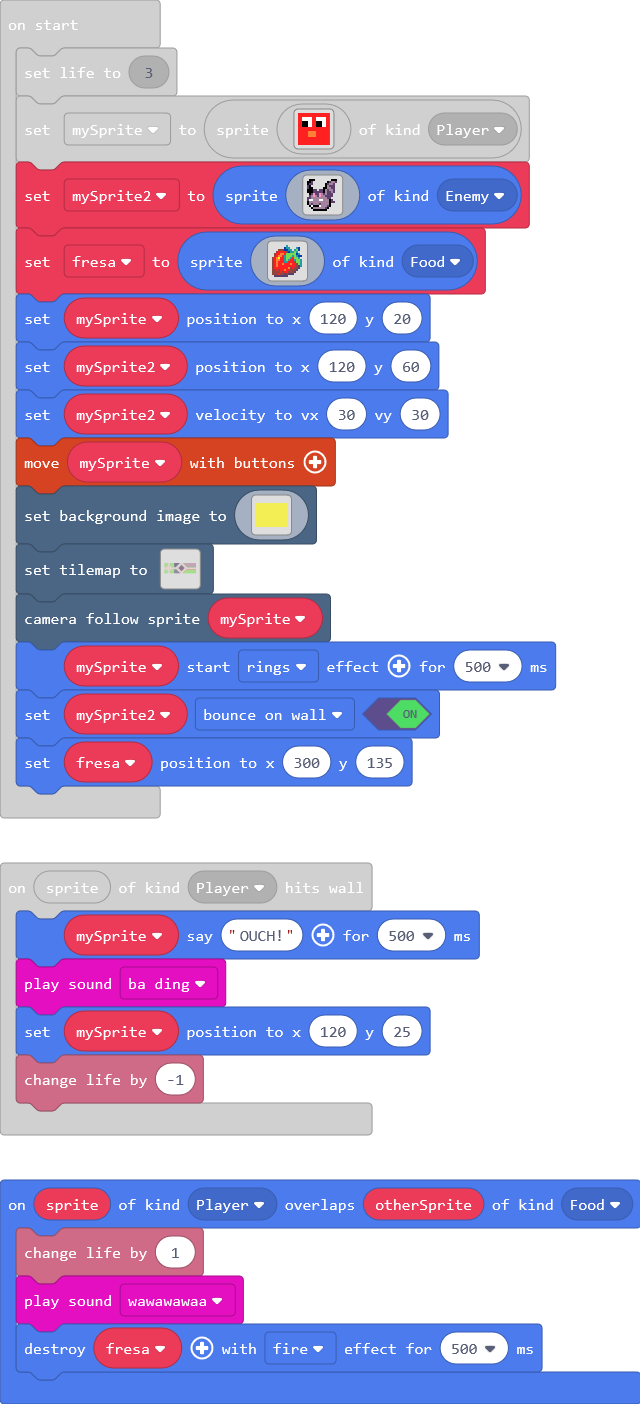
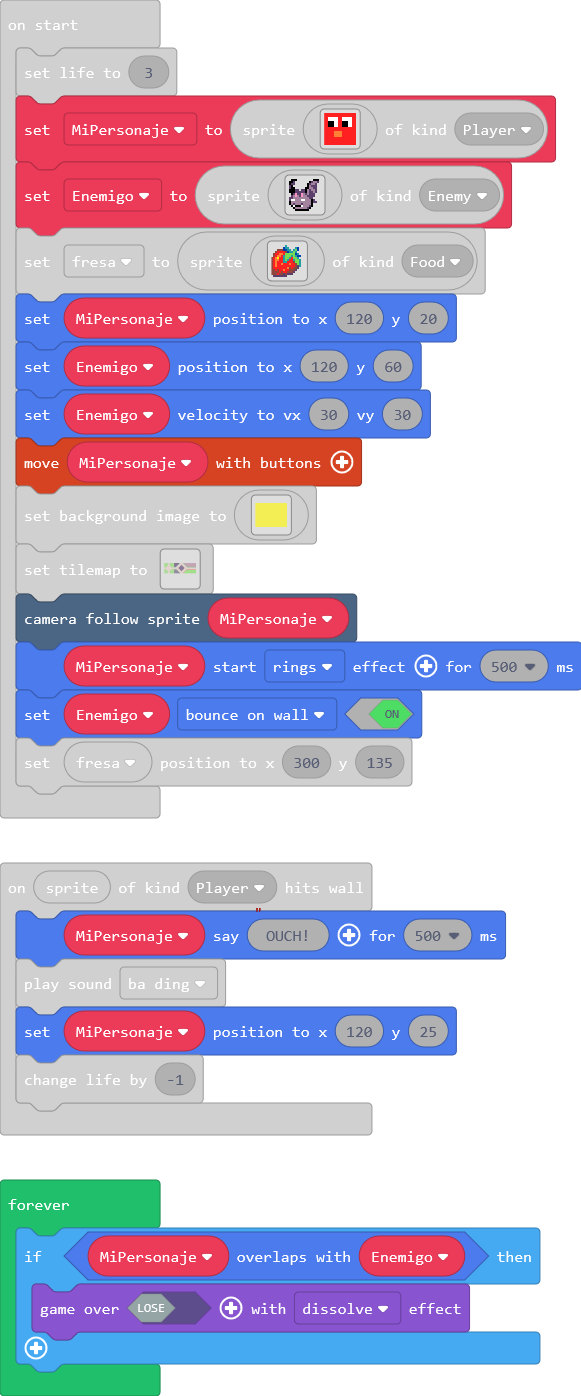
Update main.blocks, main.ts

diff --git a/main.ts b/main.ts
@@ -20,9 +20,9 @@ namespace myTiles {
 `
 }
 scene.onHitWall(SpriteKind.Player, function (sprite) {
-    mySprite.say("OUCH!", 500)
+    MiPersonaje.say("OUCH!", 500)
     music.baDing.play()
-    mySprite.setPosition(120, 25)
+    MiPersonaje.setPosition(120, 25)
     info.changeLifeBy(-1)
 })
 sprites.onOverlap(SpriteKind.Player, SpriteKind.Food, function (sprite, otherSprite) {
@@ -31,9 +31,9 @@ sprites.onOverlap(SpriteKind.Player, SpriteKind.Food, function (sprite, otherSpr
     fresa.destroy(effects.fire, 500)
 })
 let fresa: Sprite = null
-let mySprite: Sprite = null
+let MiPersonaje: Sprite = null
 info.setLife(3)
-mySprite = sprites.create(img`
+MiPersonaje = sprites.create(img`
 2 2 2 2 2 2 2 2 2 2 2 2 2 2 2 2 
 2 2 2 2 2 2 2 2 2 2 2 2 2 2 2 2 
 2 2 1 1 1 1 1 2 2 1 1 1 1 1 2 2 
@@ -51,7 +51,7 @@ mySprite = sprites.create(img`
 2 2 2 2 2 2 2 2 2 2 2 2 2 2 2 2 
 2 2 2 2 2 2 2 2 2 2 2 2 2 2 2 2 
 `, SpriteKind.Player)
-let mySprite2 = sprites.create(img`
+let Enemigo = sprites.create(img`
 . f f f . . . . . . . . f f f . 
 f f c . . . . . . . f c b b c . 
 f c c . . . . . . f c b b c . . 
@@ -87,10 +87,10 @@ e e e e 2 e 2 2 e e e c . . . .
 e e e 2 e e c e c c c . . . . . 
 . c c c c c c c . . . . . . . . 
 `, SpriteKind.Food)
-mySprite.setPosition(120, 20)
-mySprite2.setPosition(120, 60)
-mySprite2.setVelocity(30, 30)
-controller.moveSprite(mySprite)
+MiPersonaje.setPosition(120, 20)
+Enemigo.setPosition(120, 60)
+Enemigo.setVelocity(30, 30)
+controller.moveSprite(MiPersonaje)
 scene.setBackgroundImage(img`
 5 5 5 5 5 5 5 5 5 5 5 5 5 5 5 5 5 5 5 5 5 5 5 5 5 5 5 5 5 5 5 5 5 5 5 5 5 5 5 5 5 5 5 5 5 5 5 5 5 5 5 5 5 5 5 5 5 5 5 5 5 5 5 5 5 5 5 5 5 5 5 5 5 5 5 5 5 5 5 5 5 5 5 5 5 5 5 5 5 5 5 5 5 5 5 5 5 5 5 5 5 5 5 5 5 5 5 5 5 5 5 5 5 5 5 5 5 5 5 5 5 5 5 5 5 5 5 5 5 5 5 5 5 5 5 5 5 5 5 5 5 5 5 5 5 5 5 5 5 5 5 5 5 5 5 5 5 5 5 5 
 5 5 5 5 5 5 5 5 5 5 5 5 5 5 5 5 5 5 5 5 5 5 5 5 5 5 5 5 5 5 5 5 5 5 5 5 5 5 5 5 5 5 5 5 5 5 5 5 5 5 5 5 5 5 5 5 5 5 5 5 5 5 5 5 5 5 5 5 5 5 5 5 5 5 5 5 5 5 5 5 5 5 5 5 5 5 5 5 5 5 5 5 5 5 5 5 5 5 5 5 5 5 5 5 5 5 5 5 5 5 5 5 5 5 5 5 5 5 5 5 5 5 5 5 5 5 5 5 5 5 5 5 5 5 5 5 5 5 5 5 5 5 5 5 5 5 5 5 5 5 5 5 5 5 5 5 5 5 5 5 
@@ -236,7 +236,12 @@ tiles.setTilemap(tiles.createTilemap(
             [myTiles.tile0,sprites.castle.tilePath5,sprites.castle.tileGrass2,sprites.builtin.oceanSand7,sprites.builtin.oceanSand11,sprites.dungeon.darkGroundSouthWest1,sprites.dungeon.greenOuterNorth0,sprites.dungeon.floorDark0,sprites.dungeon.greenOuterEast2,sprites.builtin.coral5,sprites.dungeon.doorOpenWest,sprites.dungeon.doorOpenEast,sprites.dungeon.greenOuterNorthWest,sprites.dungeon.greenOuterNorthEast,sprites.builtin.oceanSand8,sprites.castle.tileDarkGrass2,sprites.builtin.oceanDepths10,sprites.builtin.oceanSand0,sprites.builtin.forestTiles13,sprites.builtin.forestTiles17,sprites.builtin.forestTiles18,sprites.builtin.forestTiles19,sprites.builtin.forestTiles27,sprites.builtin.forestTiles22,sprites.builtin.crowd1,sprites.dungeon.hazardWater,sprites.dungeon.hazardLava0,sprites.builtin.field0,sprites.dungeon.hazardSpike,sprites.dungeon.buttonOrange,sprites.dungeon.greenOuterNorth1],
             TileScale.Sixteen
         ))
-scene.cameraFollowSprite(mySprite)
-mySprite.startEffect(effects.rings)
-mySprite2.setFlag(SpriteFlag.BounceOnWall, true)
+scene.cameraFollowSprite(MiPersonaje)
+MiPersonaje.startEffect(effects.rings)
+Enemigo.setFlag(SpriteFlag.BounceOnWall, true)
 fresa.setPosition(300, 135)
+forever(function () {
+    if (MiPersonaje.overlapsWith(Enemigo)) {
+        game.over(false, effects.dissolve)
+    }
+})
